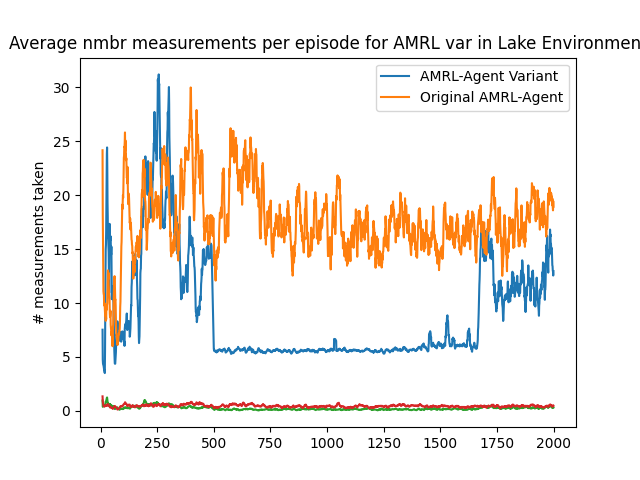
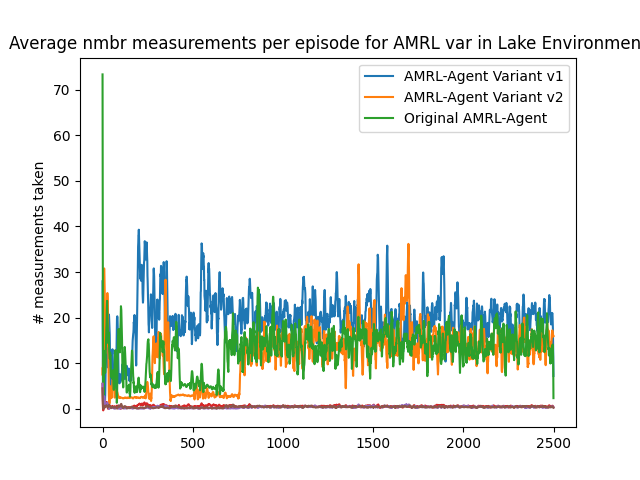
Added v2 variant, which includes particles to better estimate current s
Introduced some problem where variants sometimes run very long: I'll have to fix this...

diff --git a/AMRL_variant.py b/AMRL_variant.py
@@ -4,8 +4,12 @@ from math import comb
 import numpy as np
 import AMRL_Agent as amrl_template
 
+####################################################################
+#           Variant 1 : Estimating Value of Measuring
+####################################################################
+
 class AMRL_Variant_1(amrl_template.AMRL_Agent):
-    '''Variant of AMRL-agent using more complex estimations of '''
+    '''Variant of AMRL-agent that bases decision to measure on estimation of lost reward '''
 
     def __init__(self,env,StateSize,MeasureSize,ActionSize, eta=0.05, s_init = 1, m_bias = 0.1, measureCost=0.01):
         #load all environment-specific variables
@@ -44,6 +48,7 @@ class AMRL_Variant_1(amrl_template.AMRL_Agent):
 
         # Find optimal next action, if not measuring:
         estimated_reward = np.zeros(self.ActionSize)
+        # for each (s,p) in S:
         for s_next in range(self.StateSize):
                 if s_next != s: #dis-incentivize self-loops
                     for a2 in range(self.ActionSize):
@@ -52,16 +57,144 @@ class AMRL_Variant_1(amrl_template.AMRL_Agent):
 
         # Compute possible loss
         P = 0
+        #for each (s,p) in S:
         for s_next in range(self.StateSize):
-            P = self.TransTable[s,a1,s_next] * ( self.QTable[s_next, a2_opt] - np.max(self.QTable[s_next]) )
+            P += self.TransTable[s,a1,s_next] * ( self.QTable[s_next, a2_opt] - np.max(self.QTable[s_next]) )
         
         # Decide if measuring
         if P > self.measureCost or np.sum(self.TriesTable[s,a1]) < self.nmbrOptimisticTries:
             return (a1,1)
         return (a1,0)
 
+####################################################################
+#           Variant 2 : Using current State Estimation
+####################################################################
 
+class AMRL_Variant_2(AMRL_Variant_1):
+    nmbrParticles = 5
 
+    def __init__(self,env,StateSize,MeasureSize,ActionSize, eta=0.05, s_init = 1, m_bias = 0.1, measureCost=0.01):
+        #load all environment-specific variables
+        self.env, self.StateSize, self.MeasureSize, self.ActionSize,self.eta, self.s_init, self.m_bias, self.measureCost = env, StateSize, MeasureSize, ActionSize,eta, s_init, m_bias, measureCost
+        self.nmbrOptimisticTries = 10
+        # Create all episode and run-specific variables
+        self.reset_Run_Variables()
+
+    def reset_Run_Variables(self):
+        # Variables for one run
+        self.QTable = np.ones( (self.StateSize,self.ActionSize) )
+        self.QTableUnbiased = np.zeros ((self.StateSize, self.ActionSize)) + 0.1
+        self.QTriesTable = np.zeros( (self.StateSize, self.ActionSize) )
+        self.TransTable = np.zeros( (self.StateSize, self.ActionSize, self.StateSize) ) + 1/self.StateSize
+        self.TriesTable = np.zeros( (self.StateSize, self.ActionSize, self.StateSize) )     # should this not be [stateSize, actionSize] only?
+        self.totalReward = 0
+        # Variables for one epoch
+        self.reset_Epoch_Vars()
+    
+    def update_TransTable(self, S1, s2, action):
+        '''Updates Transition Table by adding transition from s1 to s2 using action'''
+        for s1 in S1:
+            p = S1[s1]
+            for i in range(self.StateSize):
+                previousT, previousTries = self.TransTable[s1,action,i], self.TriesTable[s1,action,i]
+                self.TriesTable[s1,action,i] = previousTries+p
+                if i == s2:
+                    self.TransTable[s1,action,i] = (previousT*previousTries+p) / (previousTries+p)
+                else:
+                    self.TransTable[s1,action,i] = (previousT*previousTries) / (previousTries+p)
+    
+    def update_QTable(self, S1, action, measure, S2, reward):
+        for s1 in S1:
+            for s2 in S2:
+                p = S1[s1]*S2[s2]
+                # Update QTable_actual, according to reward etc.
+                previousQ, previousTries = self.QTableUnbiased[s1,action], self.QTriesTable[s1,action]
+                Q_s2 = np.max(self.QTableUnbiased[s2])
+                self.QTriesTable[s1,action] += p
+                self.QTableUnbiased[s1,action] = (previousQ*previousTries + p * (Q_s2 + reward) ) / (previousTries+p)
+
+                # Update QTable according to QTable_actual and #visits s1 (optimism)
+                if self.QTriesTable[s1,action] > self.nmbrOptimisticTries:
+                    self.QTable[s1,action] = self.QTableUnbiased[s1,action]
+        
+
+    def guess_current_State(self,S,action):
+        Snext = {}
+        for s in S:     # It would be nicer to sample according to p's here, too...
+            p = S[s]
+            for i in np.arange(0,p+(1/self.nmbrParticles*0.01),1/self.nmbrParticles):
+                snext = np.random.choice( self.StateSize, p=self.TransTable[s,action])
+                #snext = np.argmax(self.TransTable[s,action])
+                if snext in Snext:
+                    Snext[snext] += 1/self.nmbrParticles
+                else:
+                    Snext[snext]  = 1/self.nmbrParticles
+        return Snext
+
+    def find_optimal_actionPair(self,S):
+        # Find optimal value according to current Q-table
+        thisQ = np.zeros(self.ActionSize)
+        for s in S:
+            p = S[s]
+            thisQ += self.QTable[s]*p
+        a1 = np.argmax(thisQ)
+
+        # Find optimal next action, if not measuring:
+        estimated_reward = np.zeros(self.ActionSize)
+        for s in S:
+            p = S[s]
+            for s_next in range(self.StateSize):
+                if s_next != s: #dis-incentivize self-loops
+                    for a2 in range(self.ActionSize):
+                        estimated_reward[a2] += p * self.TransTable[s,a1,s_next] * np.max(self.QTable[s_next,a2])
+        a2_opt = np.argmax(estimated_reward)
+
+        # Compute possible loss
+        P = 0
+        for s in S:
+            p = S[s]
+            for s_next in range(self.StateSize):
+                P += p * self.TransTable[s,a1,s_next] * ( self.QTable[s_next, a2_opt] - np.max(self.QTable[s_next]) )
+        
+        # Decide if measuring
+        if P > self.measureCost or np.sum(self.TriesTable[s,a1]) < self.nmbrOptimisticTries:
+            return (a1,1)
+        return (a1,0)
+
+    def train_epoch(self):
+        '''Training algorithm of AMRL as given in paper'''
+        S = {}          
+        S[self.s_init] = 1
+        done = False
+        while not done:
+            # Chose and take step:
+            if np.random.random(1) < 1-self.eta:
+                (action,measure) = self.find_optimal_actionPair(S) #Choose optimal action
+            else:
+                (action,measure) = self.find_nonOptimal_actionPair(S) #choose non-optimal action
+            (obs, reward, done, info) = self.env.step(action)
+            #if done and reward == 0:
+                #reward -= 0.1
+    	    
+            
+            # Update reward, Q-table and s_next
+            s_next = {}
+            if measure:
+                self.update_TransTable(S,obs,action)
+                self.measurements_taken += 1
+                s_next[obs] = 1
+            else:
+                s_next = self.guess_current_State(S, action)
+            self.update_QTable(S,action,measure,s_next, reward)
+            S = s_next
+            self.currentReward += reward - self.measureCost*measure #this could be cleaner...
+            self.steps_taken += 1
+        
+        # Reset after epoch, return reward and #steps
+        self.totalReward += self.currentReward
+        (rew, steps, ms) = self.currentReward, self.steps_taken, self.measurements_taken
+        self.reset_Epoch_Vars()
+        return (rew,steps,ms)
 
 
 

diff --git a/AMRL_v1.py b/AMRL_v1.py
@@ -10,6 +10,7 @@ import gym
 import matplotlib.pyplot as plt
 import bottleneck as bn
 import time as t
+from scipy.signal import savgol_filter
 
 import AMRL_Agent as amrl
 import AMRL_variant as amrlv
@@ -22,6 +23,7 @@ env.reset()
 Actions = np.arange(0,4)
 States = np.arange(0,16)
 s_init = 1
+nmbr_vars_recorded = 3
 
 ActionSize = np.size(Actions)
 
@@ -48,23 +50,24 @@ eta = 0.1
 # agent_3 = amrlv.AMRL_Variant_1(env, StateSize, MeasureSize, ActionSize,measureCost = 0.2)
 # agent_4 = amrlv.AMRL_Variant_1(env, StateSize, MeasureSize, ActionSize,measureCost = 0.2, m_bias = 0.05)
 
-agent_var = amrlv.AMRL_Variant_1(env, StateSize, MeasureSize, ActionSize)
+agent_var1 = amrlv.AMRL_Variant_1(env, StateSize, MeasureSize, ActionSize)
+agent_var2 = amrlv.AMRL_Variant_2(env, StateSize, MeasureSize, ActionSize)
 agent_nor = amrl.AMRL_Agent(env, StateSize, MeasureSize, ActionSize)
-agents = [agent_var, agent_nor]
+agents = [agent_var1, agent_var2, agent_nor]
 #agents = [agent_1, agent_2, agent_3, agent_4]
 
 #legend = ["Bias = 0.1, Cost = 0.01 (Default)", "Bias = 0.05, Cost = 0.01", "Bias = 0.1, Cost = 0.2", "Bias = 0.05, Cost = 0.2"]
-legend = ["AMRL-Agent Variant", "Original AMRL-Agent"]
+legend = ["AMRL-Agent Variant v1", "AMRL-Agent Variant v2", "Original AMRL-Agent"]
 
 ######################################################
         ###     Running Simulations       ###
 ######################################################
 
 # Defining runs
-nmbr_episodes = 5000
-nmbr_runs = 25
-all_results = np.zeros((len(agents),nmbr_runs, nmbr_episodes, 3))
-all_avgs = np.zeros((len(agents), nmbr_episodes, 3))
+nmbr_episodes = 2500
+nmbr_runs = 5
+all_results = np.zeros((len(agents),nmbr_runs, nmbr_episodes, nmbr_vars_recorded))
+all_avgs = np.zeros((len(agents), nmbr_episodes, nmbr_vars_recorded))
 
 # Run-loop:
 for a in range(len(agents)):
@@ -75,21 +78,24 @@ for a in range(len(agents)):
                 (r_avg, all_results[a,i]) = thisAgent.train_run(nmbr_episodes, True)
                 print("Run {0} done!".format(i))
         all_avgs[a] = np.average(all_results[a], axis=0)
-        print("Agent Done! ({0} runs, total of {1} ms)\n\n".format(nmbr_runs, t.perf_counter()-t_start))
+        print("Agent Done! ({0} runs, total of {1} s)\n\n".format(nmbr_runs, t.perf_counter()-t_start))
 
 
 ######################################################
         ###     Plotting Results        ###
 ######################################################
 
-# Create Rolling Averages for plotting
+# Create Rolling Averages for plotting (this could be more efficiently done by setting axis correctly...)
 print("Smooting out averages...")
-window = 10
+window = 25
 for a in range(len(agents)):
-        all_avgs[a] = bn.move_mean(all_avgs[a], window, axis=0)
+        for v in range(nmbr_vars_recorded):
+                all_avgs[a,:,v] = savgol_filter(all_avgs[a,:,v], window, 5)
+                
 
 plt.xlabel("Episode number")
 print("Plotting Graphs...")
+
 # Plotting Rewards
 plt.title("Average reward per episode for AMRL-var in Lake Environment")
 plt.ylabel("Reward")
@@ -102,6 +108,17 @@ plt.legend(legend)
 plt.savefig("AMRL-var_results_redone_reward.png")
 plt.clf()
 
+# Plotting Cumulative Rewards
+plt.title("Cumulative episodic reward for AMRL-var in Lake Environment")
+plt.ylabel("Cumulative Reward")
+
+x = np.arange(nmbr_episodes)
+for a in range(len(agents)):
+        plt.plot(x, np.cumsum(all_avgs[a,:,0]))
+
+plt.legend(legend)
+plt.savefig("AMRL-var_cumresults_redone_reward.png")
+plt.clf()
 # Plotting # Steps
 plt.title("Average nmbr Steps per episode for AMRL var in Lake Environment")
 plt.ylabel("# Steps taken")
@@ -113,7 +130,7 @@ for a in range(len(agents)):
 plt.legend(legend)
 plt.savefig("AMRL-var_results_redone_steps.png")
 
-# Plotting # Steps
+# Plotting # measurements
 plt.title("Average nmbr measurements per episode for AMRL var in Lake Environment")
 plt.ylabel("# measurements taken")
 
